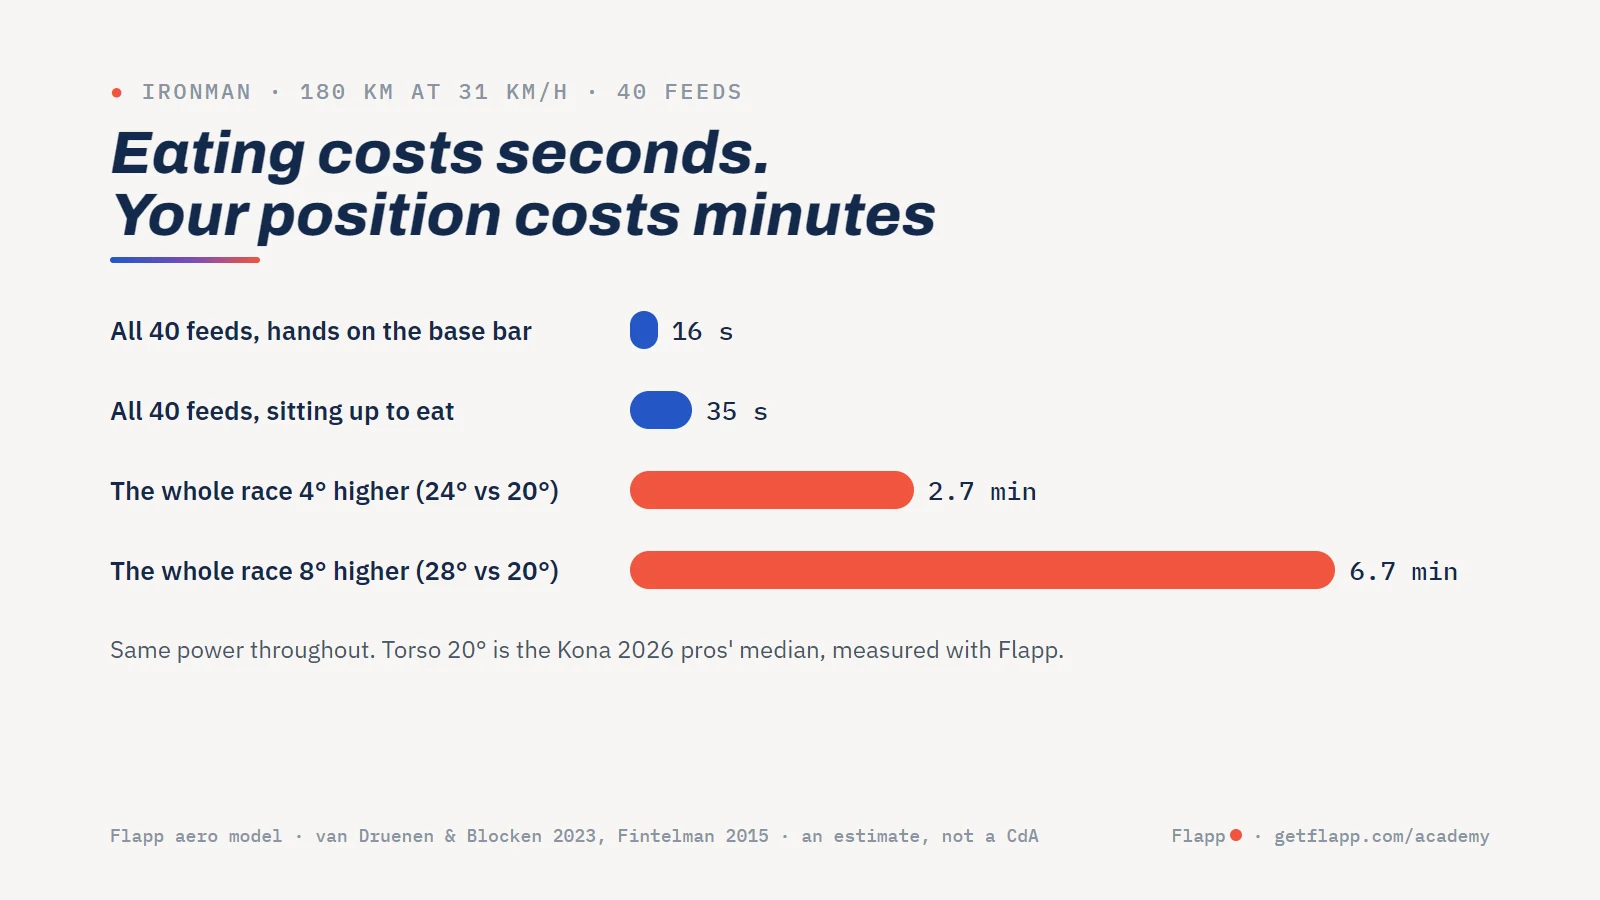
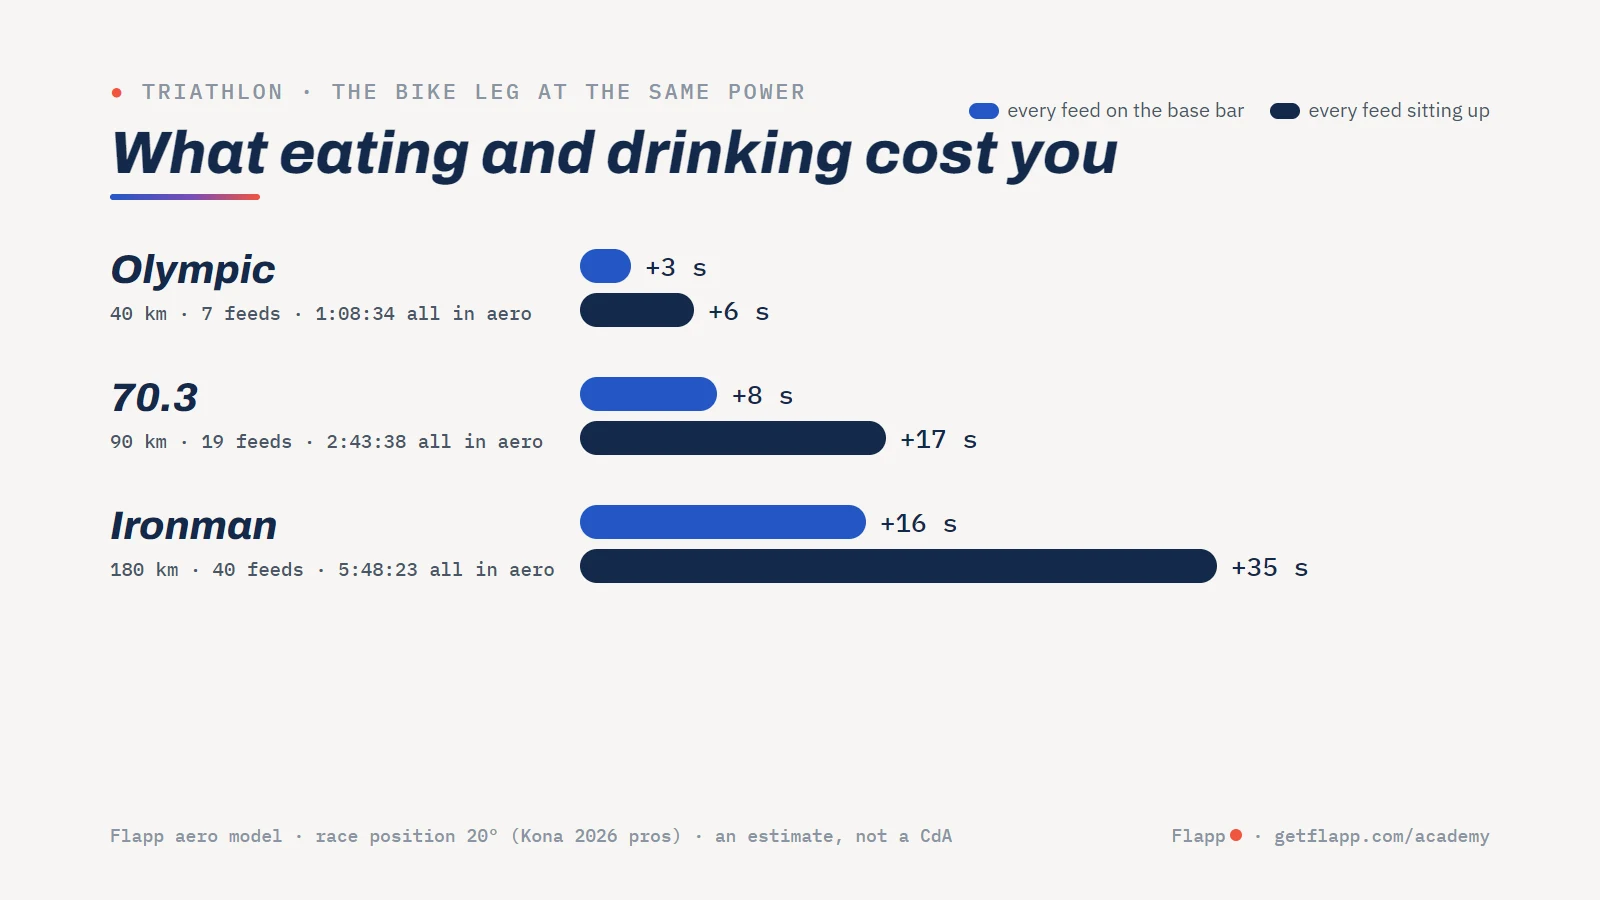
UCI fueling article: feeding cost per race against the all-aero split, without the whole-race angle comparison

diff --git a/backend/content/academy/uci-fueling-and-your-position.md b/backend/content/academy/uci-fueling-and-your-position.md
@@ -61,22 +61,19 @@ Forty times in an Ironman. If each one means sitting up, that is eight minutes o
 
 ## What it costs
 
-We ran the Ironman bike leg through Flapp's aero model at the same power throughout: once with every feed taken on the base bar, once sitting up for each, and against the whole race ridden a few degrees higher.
+We rode each bike leg through Flapp's aero model at the same power three times: all of it in the race position, with every feed taken on the base bar, and sitting up for every feed.
 
-![Eating costs seconds, your position costs minutes: all 40 feeds cost 16 s on the base bar or 35 s sitting up, against 2.7 min for a torso 4° higher and 6.7 min for 8° higher over the whole race.](/media/academy/uci-fueling/cost.webp)
+![What eating and drinking cost you: Olympic +3 s on the base bar or +6 s sitting up, 70.3 +8 s or +17 s, Ironman +16 s or +35 s.](/media/academy/uci-fueling/cost.webp)
 
-| Race | Every feed sitting up | Whole race 4° higher | Whole race 8° higher |
+| Race | All in aero | Feeds on the base bar | Feeds sitting up |
 |---|---|---|---|
-| Olympic | 6 s | 30 s | 80 s |
-| 70.3 | 17 s | 80 s | 3.2 min |
-| Ironman | 35 s | 2.7 min | 6.7 min |
+| Olympic | 1:08:34 | +3 s | +6 s |
+| 70.3 | 2:43:38 | +8 s | +17 s |
+| Ironman | 5:48:23 | +16 s | +35 s |
 
-Two things follow:
+Sitting up for all 40 feeds in an Ironman costs about half a minute, less than 0.2% of the bike split. Running out of fuel in the last hour costs far more. So eat, even if it means sitting up.
 
-- **Eat.** Sitting up for every feed in an Ironman costs about half a minute. Running out of fuel in the last hour costs far more, and no position wins that back.
-- **The position you can hold is worth more than the one you can hit.** A torso 4° lower than you can hold for five hours is worth nothing if you sit up at 120 km. The 4° you keep all day is worth minutes.
-
-A bottle between the arms takes most of this away: 23 of the 40 Ironman feeds are drinks, and you take them without leaving the extensions. It is the cheapest fix on this page.
+A bottle between the arms takes most of this away: 23 of the 40 Ironman feeds are drinks, and you take them without leaving the extensions.
 
 ## Check yours with Flapp: three photos
 
@@ -96,7 +93,7 @@ What to look for:
 - **The gap between 1 and 2 is your bottle setup.** If reaching for a bottle takes you 10° or more up, move the bottle where you can get it lower.
 - **Photo 3 shows how far up you go to eat.** If it is close to upright, take gels from a bento box or a flask on the extensions, and practice it on long rides.
 
-Then film a 10 to 15 second clip in the race position, at race effort, after a couple of hours if you can. Joint angles change with effort: in one 3D study the elbow bent more as intensity rose. A clip at an easy spin shows a position you don't race in.
+Then film a 10 to 15 second clip in the race position, at race effort, after a couple of hours if you can. Joint angles change with effort: in one 3D study the elbow bent more as intensity rose. A clip at an easy spin shows a position you don't race in, and the position you hold for hours is worth more than the one you hit for a minute.
 
 ## How these numbers were made
 
